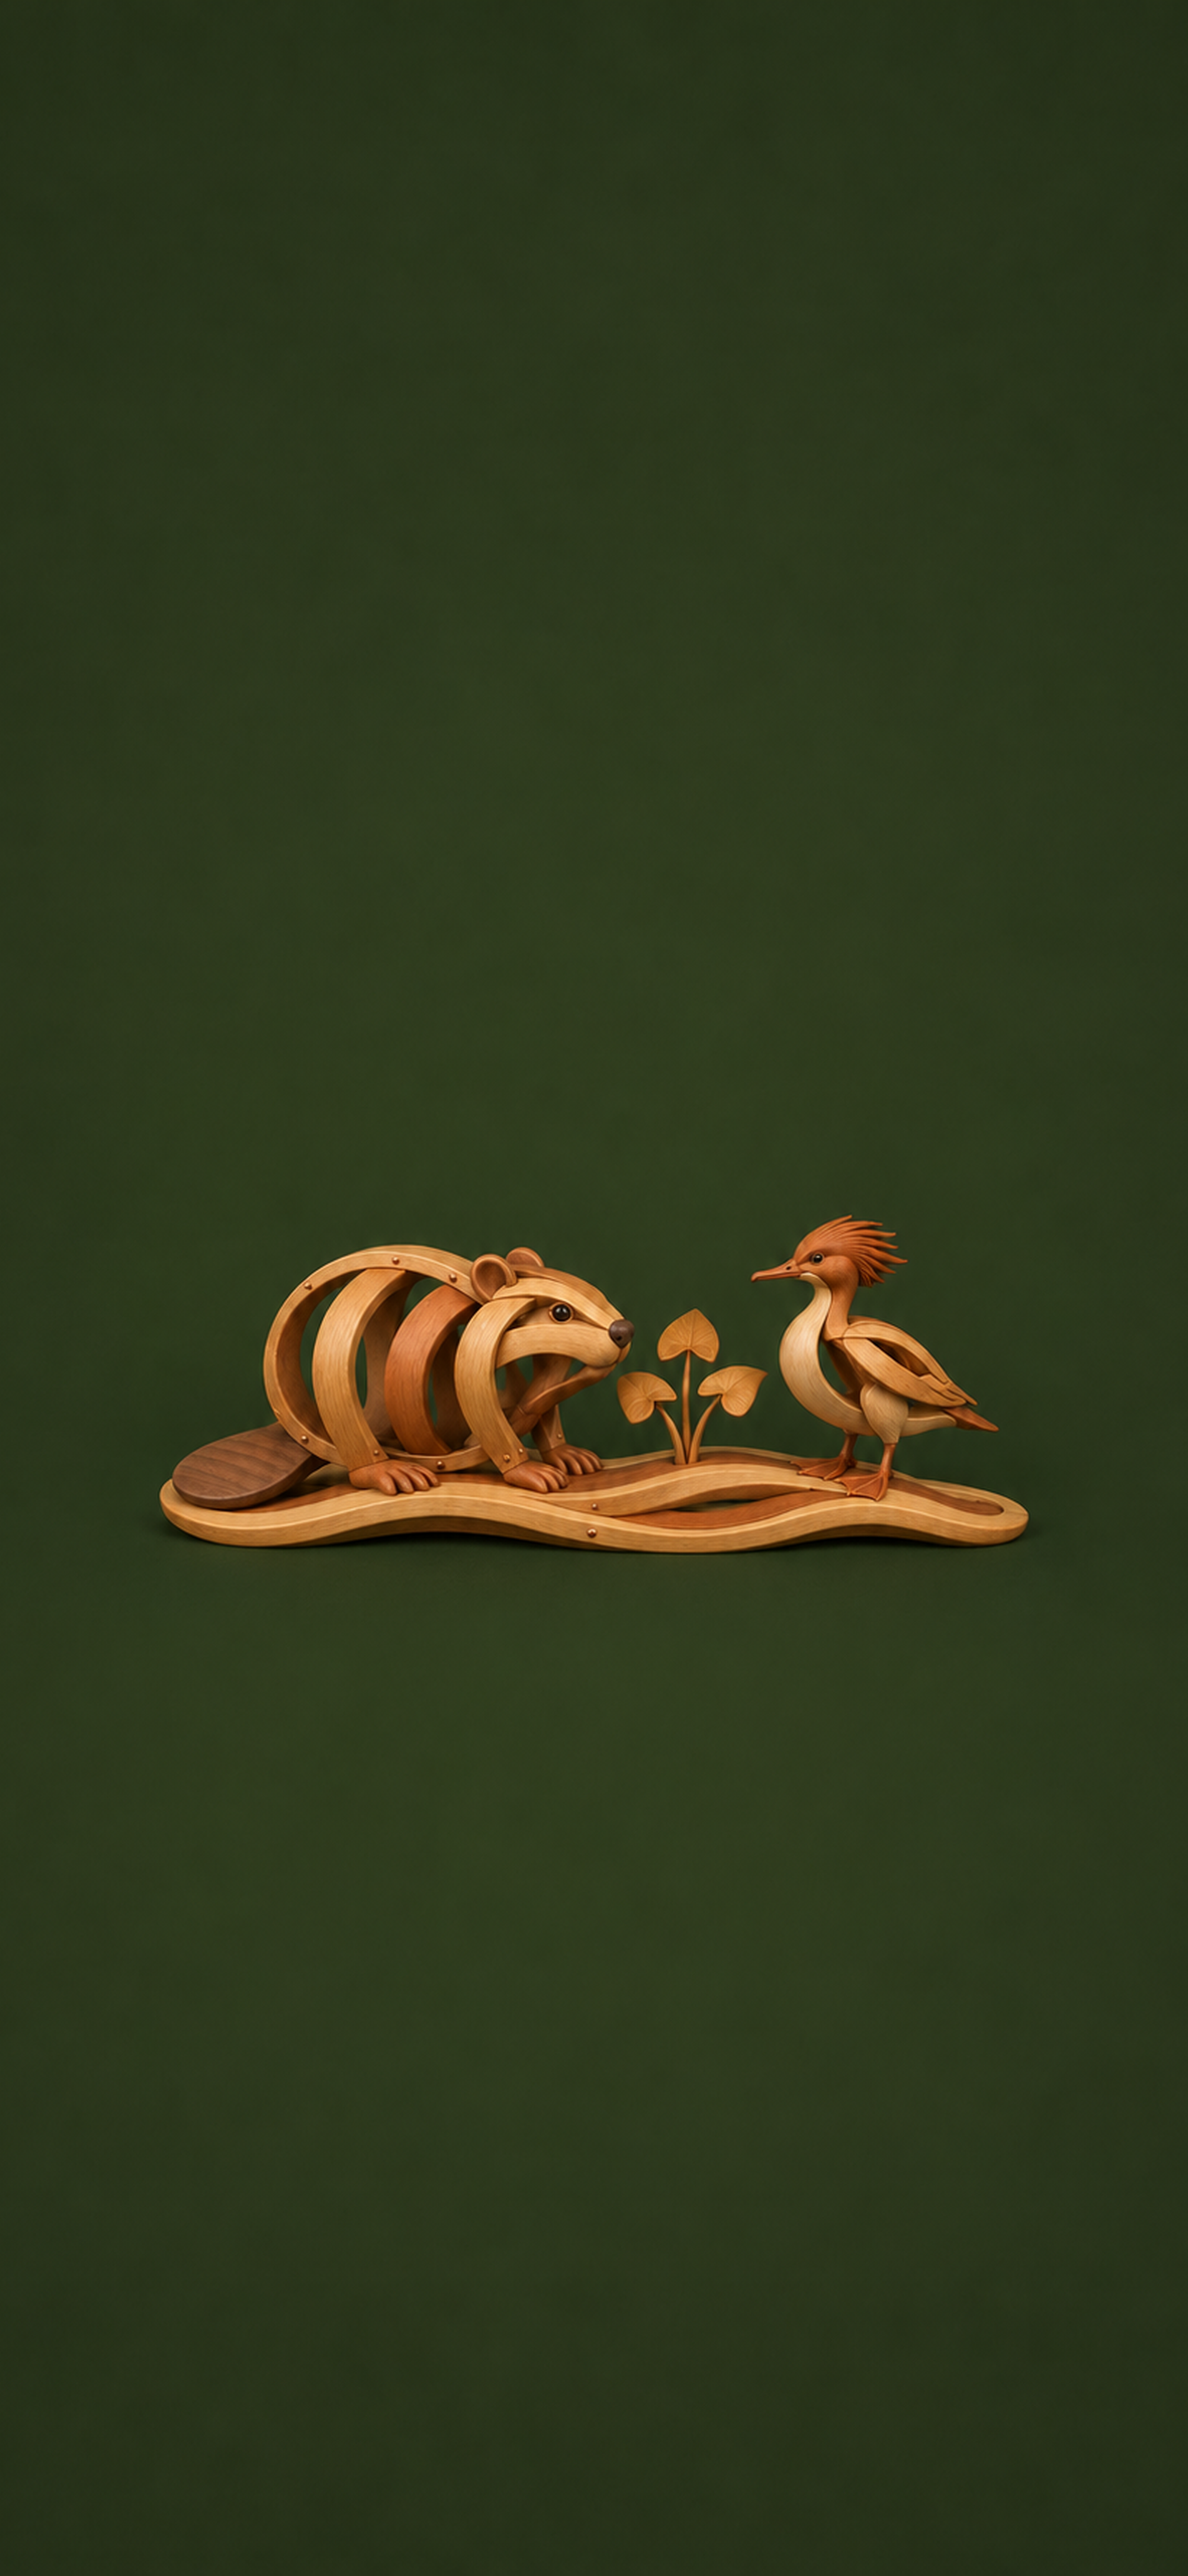
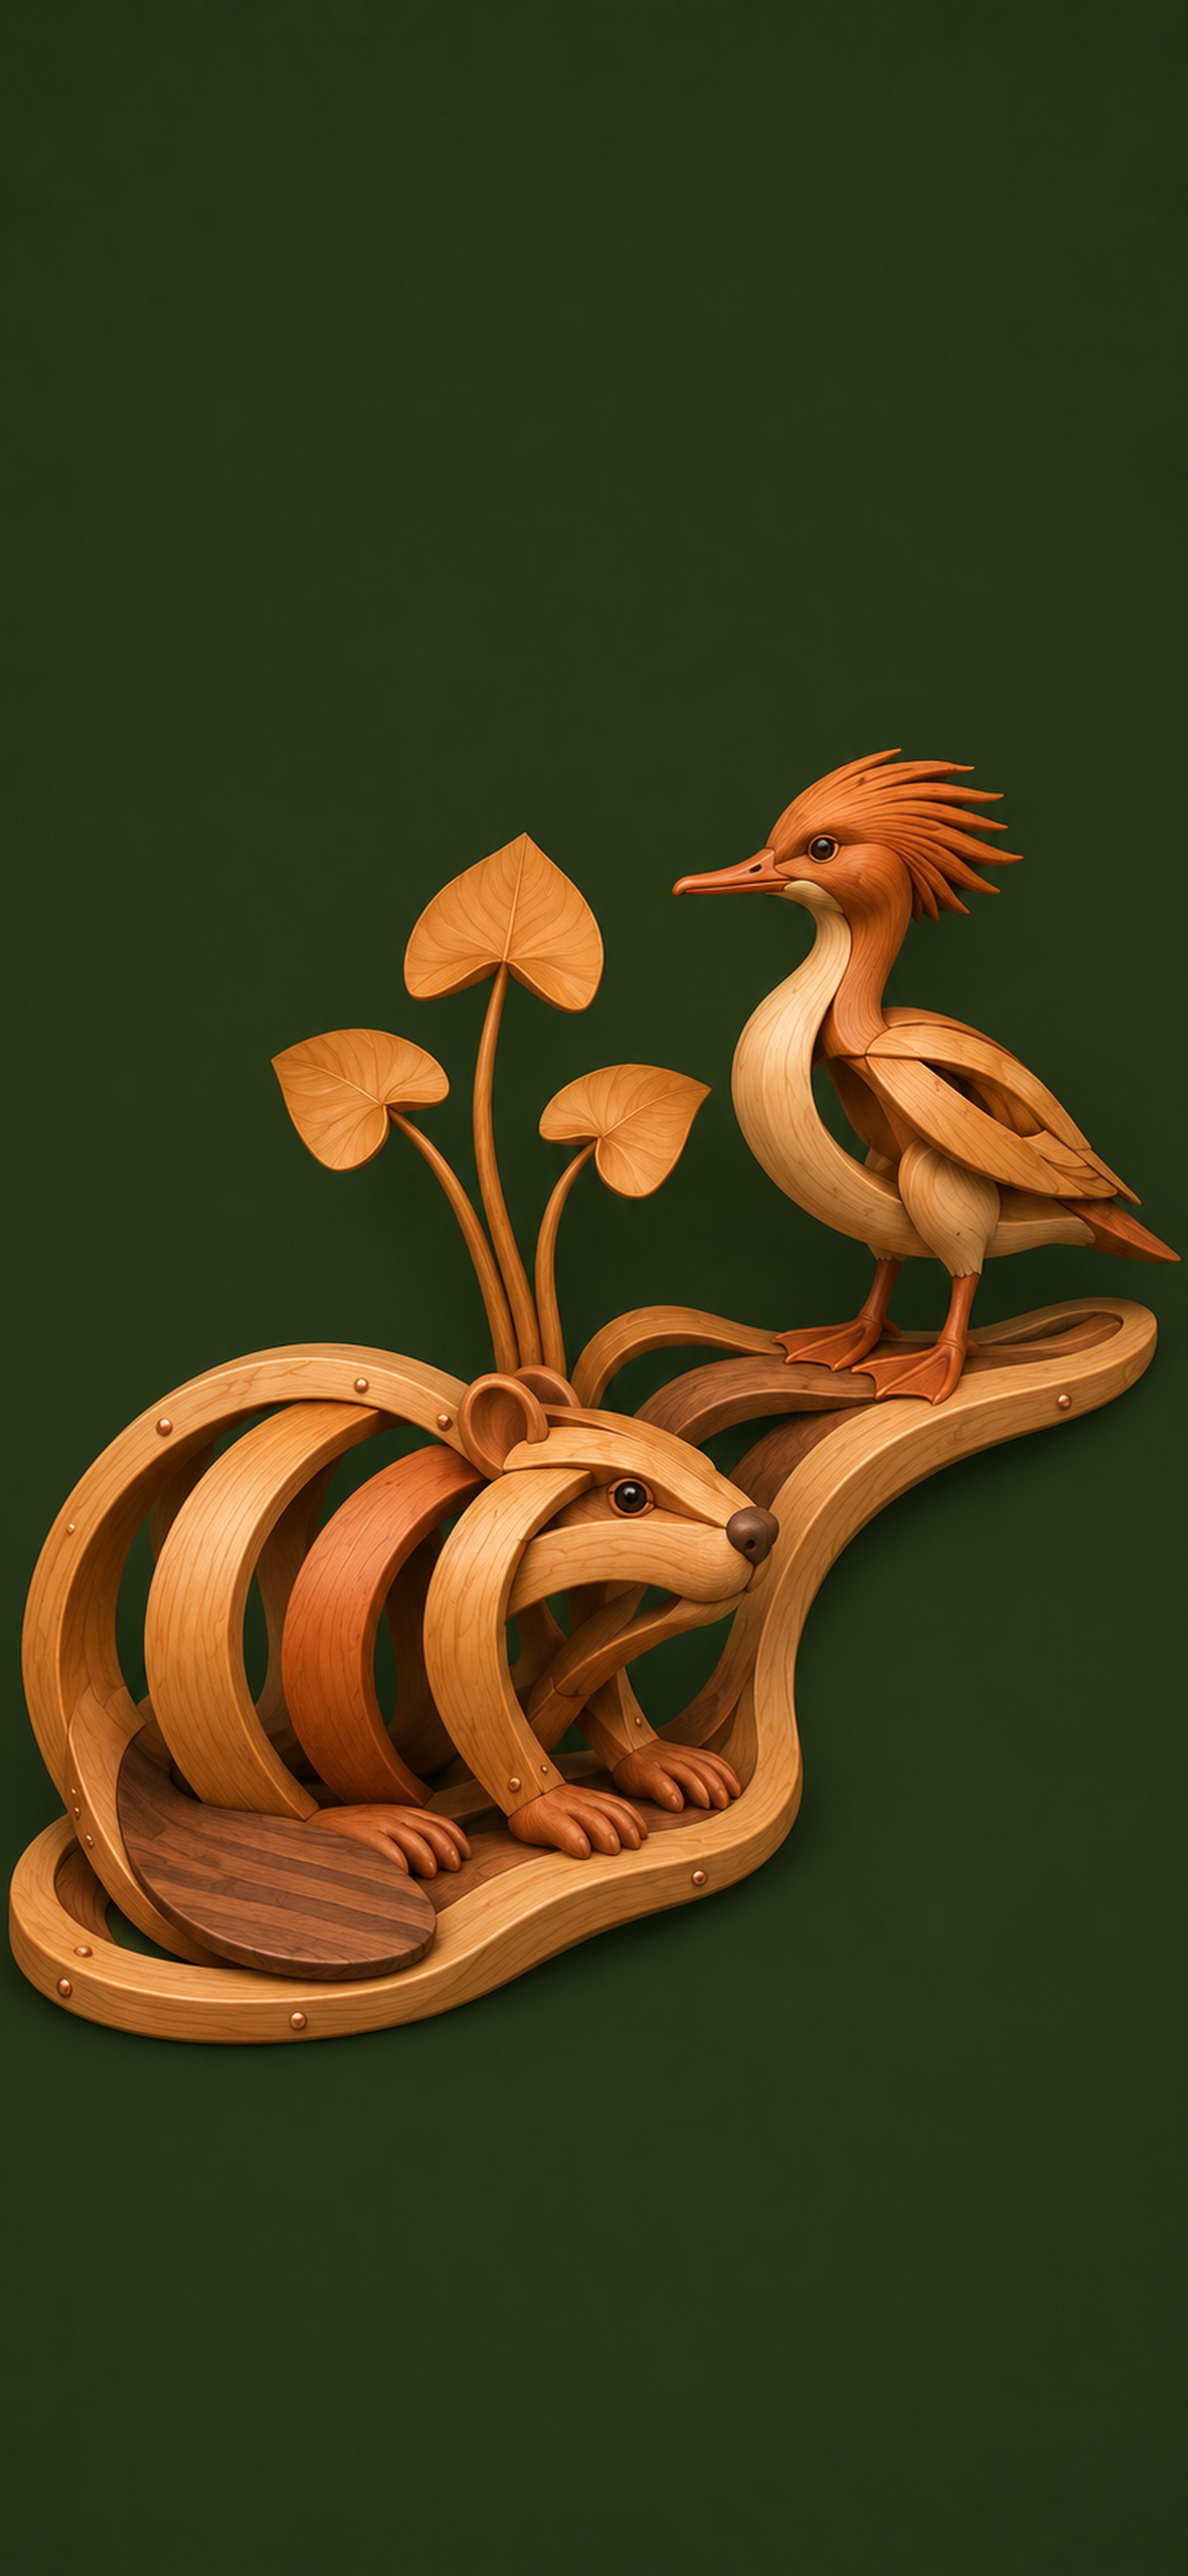
Give Ashloop Riverbank wallpaper a taller diagonal composition

Changed region(s): [[0.0, 0.28, 0.9922, 0.809]]

diff --git a/apps/glaze/theme-sources/ashloop-riverbank/qa/vertical-layout-repair/README.md b/apps/glaze/theme-sources/ashloop-riverbank/qa/vertical-layout-repair/README.md
@@ -1,0 +1,1 @@
+The third wallpaper layout was requested by the coordinator after the prior scene passed clipping but occupied too little of the screen height. The exact own prior scene is retained as sole input. The original before any pullback remains in qa/layout-repair. All artwork and native assets retained by hash.
